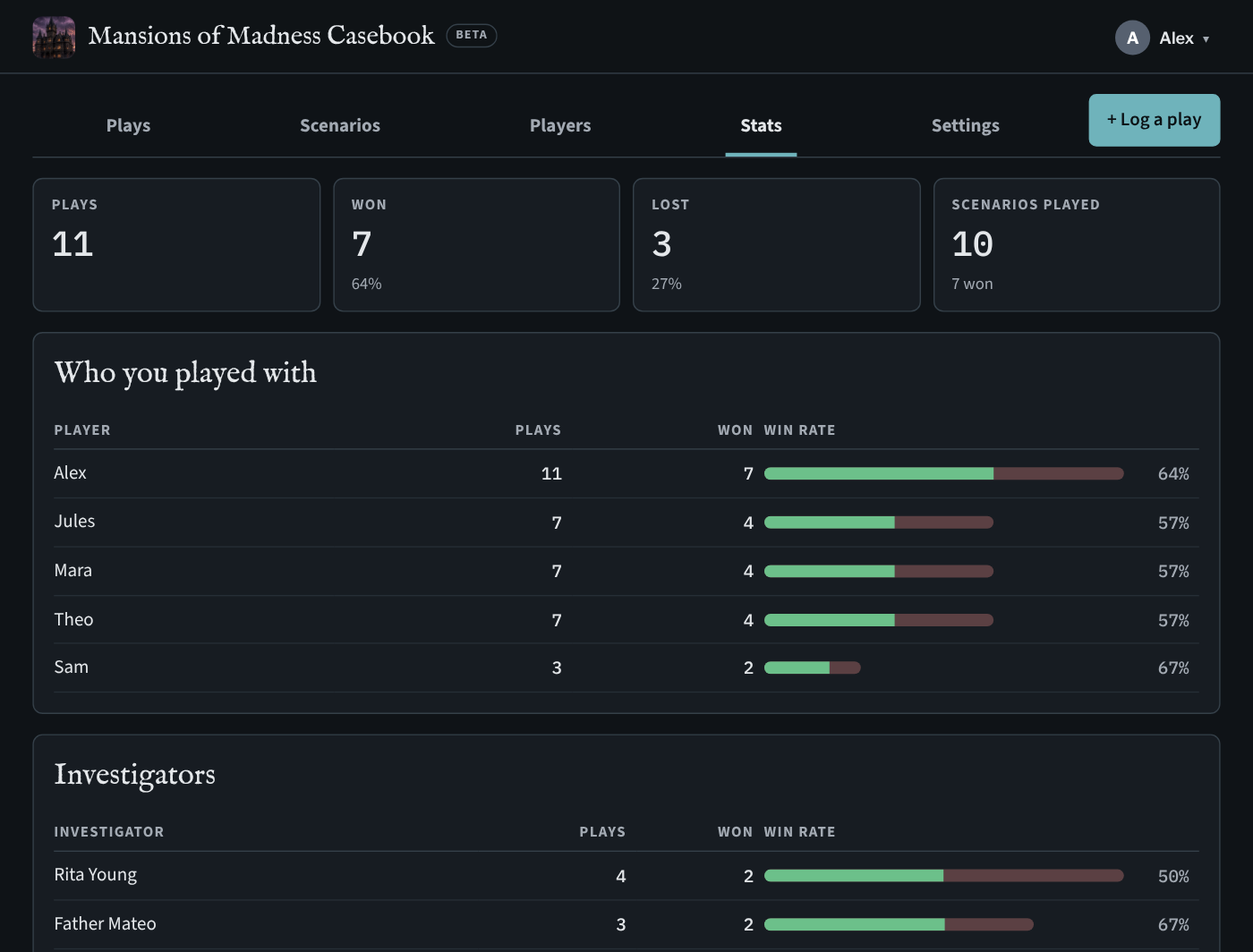
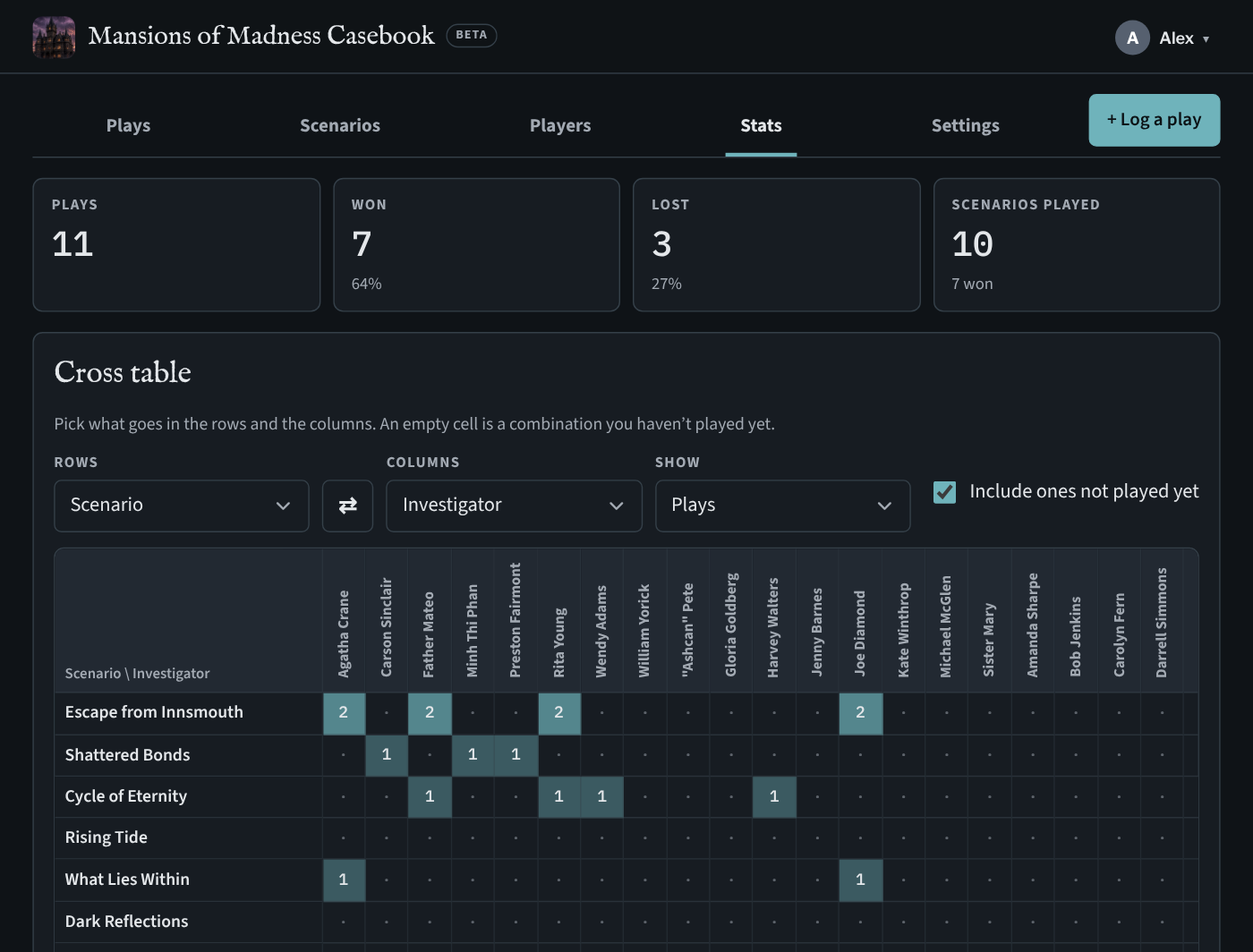
Cross table on the Stats tab (v58)
Pick any two of scenario, investigator, player, expansion, party size, place, rules,
result and scenario type for the rows and columns (swap with one tap) and see plays, wins
or win rate in each cell. Include ones not played yet lists every official scenario and
investigator from the boxes you own, so the empty cells are the combinations still to try.
Scrolls with its headings fixed, column names run upwards when there are many, and the
choice is remembered on the device (mom-xtab). Translated in all five languages; covered by
the UI test; README updated.

Suggested by a player.

Claude-Session: https://claude.ai/code/session_019kh66ouXYwNDK6aTZ456xr

diff --git a/js/app.js b/js/app.js
@@ -433,12 +433,82 @@ function lenText(m){
   var unit=function(x,n){return mins(x)?t('{n} min',{n:n}):t('{n} h',{n:n});};
   if(m[0]&&m[0]!==m[1])return mins(m[0])===mins(m[1])?unit(m[1],num(m[0])+'–'+num(m[1])):unit(m[0],num(m[0]))+'–'+unit(m[1],num(m[1]));
   return unit(m[1],num(m[1]));}
+// ---------- cross table (Stats tab): any two things against each other ----------
+// Rows and columns are picked from the dimensions below; each cell counts the plays that have both. "Include ones not
+// played yet" adds every official scenario and investigator from the boxes you own (and your saved players), so the
+// empty cells show combinations still to try. The choice is remembered on this device.
+var xt={r:'scenario',c:'investigator',v:'plays',all:true};
+try{var xt0=JSON.parse(localStorage.getItem('mom-xtab')||'null');if(xt0)for(var kx in xt0)xt[kx]=xt0[kx];}catch(e){}
+function saveXt(){try{localStorage.setItem('mom-xtab',JSON.stringify(xt));}catch(e){}}
+var XDIMS=['scenario','investigator','player','expansion','party','where','rules','result','type'];
+function xdimName(d){return {scenario:t('Scenario'),investigator:t('Investigator'),player:t('Player'),expansion:t('Expansion'),party:t('Party size'),where:t('Where'),rules:t('Rules'),result:t('Result'),type:t('Scenario type')}[d];}
+// the values a play has for a dimension (several for investigators and players), as [key, label]
+function xvals(d,p){
+  var sc=scenById(p.scenarioId);
+  if(d==='scenario')return [[p.scenarioId,scName(p.scenarioId,p.scenarioName)]];
+  if(d==='investigator'){var seen={};return (p.party||[]).map(function(s){return (s.investigator||'').trim();}).filter(function(v){if(!v||seen[v])return false;seen[v]=1;return true;}).map(function(v){return [v,v];});}
+  if(d==='player')return peopleAt(p).names.map(function(n){return [n.toLowerCase(),n];});
+  if(d==='expansion'){if(p.scenarioType==='valkyrie')return [['valkyrie',t('Valkyrie')]];var pr=sc&&sc.product;return pr?[[pr,MOM.productName(pr)]]:[];}
+  if(d==='party'){var n=peopleAt(p).count;return n?[[String(n),n===1?t('Solo'):tn('{n} player','{n} players',n)]]:[];}
+  if(d==='where')return [[p.location||'',p.location||t('Not recorded')]];
+  if(d==='rules')return [[p.rules||'',p.rules?rulesName(p.rules):t('Not recorded')]];
+  if(d==='result')return RES[p.result]?[[p.result,t(RES[p.result][0])]]:[];
+  if(d==='type')return [[p.scenarioType||'official',typeName(p.scenarioType||'official')]];
+  return [];
+}
+// everything a dimension could have, in a sensible order, for "Include ones not played yet"
+function xallVals(d){
+  var own=owned();
+  if(d==='scenario'){var out=[];MOM.PRODUCTS.forEach(function(pr){if(own.indexOf(pr.id)<0)return;MOM.OFFICIAL.filter(function(s){return s.product===pr.id;}).forEach(function(s){out.push([s.id,scName(s.id,s.name)]);});});return out;}
+  if(d==='investigator'){var o2=[];MOM.INVESTIGATOR_GROUPS.forEach(function(g){if(own.indexOf(g.product)>=0)g.list.forEach(function(n){o2.push([n,n]);});});return o2;}
+  if(d==='player')return people.slice().sort(byName).map(function(x){return [x.name.toLowerCase(),x.name];});
+  if(d==='expansion')return MOM.PRODUCTS.filter(function(pr){return own.indexOf(pr.id)>=0;}).map(function(pr){return [pr.id,pr.name];}).concat(showValk()?[['valkyrie',t('Valkyrie')]]:[]);
+  if(d==='result')return Object.keys(RES).map(function(k){return [k,t(RES[k][0])];});
+  return [];
+}
+function xtabHtml(){
+  if(xt.r===xt.c)xt.c=xt.r==='investigator'?'scenario':'investigator';
+  var rows={},cols={},rOrder=[],cOrder=[],cell={},rTot={},cTot={};
+  var addKey=function(map,order,kv){if(!map[kv[0]]){map[kv[0]]=kv[1];order.push(kv[0]);}};
+  if(xt.all){xallVals(xt.r).forEach(function(kv){addKey(rows,rOrder,kv);});xallVals(xt.c).forEach(function(kv){addKey(cols,cOrder,kv);});}
+  var bump=function(o,k,won){var x=o[k]||(o[k]={n:0,w:0});x.n++;if(won)x.w++;};
+  plays.forEach(function(p){var won=p.result==='pass',R=xvals(xt.r,p),C=xvals(xt.c,p);
+    R.forEach(function(r){addKey(rows,rOrder,r);bump(rTot,r[0],won);});C.forEach(function(c){addKey(cols,cOrder,c);bump(cTot,c[0],won);});
+    R.forEach(function(r){C.forEach(function(c){bump(cell,r[0]+'\u0001'+c[0],won);});});});
+  // without "not played yet", most played first; with it, the catalogue's own order (then anything else, most played first)
+  var byCount=function(tot){return function(a,b){return ((tot[b]||{}).n||0)-((tot[a]||{}).n||0);};};
+  if(!xt.all){rOrder.sort(byCount(rTot));cOrder.sort(byCount(cTot));}
+  var sel=function(id,val,opts){return '<select class="f" id="'+id+'">'+opts.map(function(o){return '<option value="'+o[0]+'"'+(o[0]===val?' selected':'')+'>'+esc(o[1])+'</option>';}).join('')+'</select>';};
+  var dims=XDIMS.map(function(d){return [d,xdimName(d)];});
+  var h='<section class="sec xtab"><div class="sec-head"><h2>'+t('Cross table')+'</h2></div>'+
+    '<p class="note">'+t('Pick what goes in the rows and the columns. An empty cell is a combination you haven’t played yet.')+'</p>'+
+    '<div class="filters xt-pick"><label class="field"><span class="lbl">'+t('Rows')+'</span>'+sel('xt-r',xt.r,dims)+'</label>'+
+    '<button class="btn sm xt-swap" type="button" data-a="xtswap" title="'+t('Swap rows and columns')+'" aria-label="'+t('Swap rows and columns')+'">⇄</button>'+
+    '<label class="field"><span class="lbl">'+t('Columns')+'</span>'+sel('xt-c',xt.c,dims.filter(function(d){return d[0]!==xt.r;}))+'</label>'+
+    '<label class="field"><span class="lbl">'+t('Show')+'</span>'+sel('xt-v',xt.v,[['plays',t('Plays')],['won',t('Won|total')],['rate',t('Win rate')]])+'</label>'+
+    '<label class="check xt-all"><input type="checkbox" id="xt-all"'+(xt.all?' checked':'')+'><span>'+t('Include ones not played yet')+'</span></label></div>';
+  if(!rOrder.length||!cOrder.length)return h+'<p class="note">'+t('Nothing to show yet for these two.')+'</p></section>';
+  var max=0;Object.keys(cell).forEach(function(k){if(cell[k].n>max)max=cell[k].n;});
+  var shade=function(x){if(!x)return '';var a=xt.v==='rate'?Math.round(15+60*x.w/x.n):Math.round(12+58*(xt.v==='won'?x.w:x.n)/Math.max(1,max));
+    return ' style="background:color-mix(in srgb,var('+(xt.v==='rate'?'--ok':'--accent')+') '+a+'%,transparent)"';};
+  var val=function(x){if(!x)return '<span class="xt-none" aria-label="'+t('Not played')+'">·</span>';return xt.v==='rate'?pct(x.w,x.n):xt.v==='won'?x.w:x.n;};
+  var tip=function(rk,ck,x){return esc(rows[rk]+' · '+cols[ck]+': '+(x?tn('{n} play · {won} won','{n} plays · {won} won',x.n,{won:x.w}):t('Not played')));};
+  var vertical=cOrder.length>6;
+  h+='<div class="xt-wrap"><table class="xt'+(vertical?' xt-v':'')+'"><thead><tr><th class="xt-corner"><span>'+esc(xdimName(xt.r))+' \\ '+esc(xdimName(xt.c))+'</span></th>'+
+    cOrder.map(function(ck){return '<th scope="col" title="'+esc(cols[ck])+'"><span>'+esc(cols[ck])+'</span></th>';}).join('')+'<th scope="col" class="xt-tot"><span>'+t('Total')+'</span></th></tr></thead><tbody>'+
+    rOrder.map(function(rk){return '<tr><th scope="row">'+esc(rows[rk])+'</th>'+cOrder.map(function(ck){var x=cell[rk+'\u0001'+ck];return '<td class="num"'+shade(x)+' title="'+tip(rk,ck,x)+'">'+val(x)+'</td>';}).join('')+
+      '<td class="num xt-tot">'+val(rTot[rk])+'</td></tr>';}).join('')+
+    '</tbody><tfoot><tr><th scope="row">'+t('Total')+'</th>'+cOrder.map(function(ck){return '<td class="num xt-tot">'+val(cTot[ck])+'</td>';}).join('')+'<td class="num xt-tot">'+(xt.v==='rate'?pct(plays.filter(function(p){return p.result==='pass';}).length,plays.length):xt.v==='won'?plays.filter(function(p){return p.result==='pass';}).length:plays.length)+'</td></tr></tfoot></table></div>'+
+    '<p class="note fine">'+t('A play counts once in each cell it belongs to, so a game with four investigators adds to four columns; totals count each play once.')+'</p></section>';
+  return h;
+}
 function statsHtml(){
   if(!plays.length)return '<section class="sec empty"><h2>'+t('No stats yet')+'</h2><p class="note">'+t('They fill in as you log plays.')+'</p></section>';
   var n=plays.length,pass=plays.filter(function(p){return p.result==='pass';}).length,fail=plays.filter(function(p){return p.result==='fail';}).length;
   var st=scenStats(),beaten=Object.keys(st).filter(function(k){return st[k].pass;}).length;
   var tile=function(k,v,s){return '<div class="stat"><span class="lbl">'+k+'</span><b class="num">'+v+'</b>'+(s?'<small>'+s+'</small>':'')+'</div>';};
   var h='<div class="stats">'+tile(t('Plays'),n)+tile(t('Won|total'),pass,pct(pass,n))+tile(t('Lost|total'),fail,pct(fail,n))+tile(t('Scenarios played'),Object.keys(st).length,tn('{n} won','{n} won',beaten))+'</div>';
+  h+=xtabHtml();
   var table=function(title,rows,col){
     if(!rows.length)return '';var max=Math.max.apply(null,rows.map(function(r){return r.n;}));
     return '<section class="sec"><h2>'+esc(title)+'</h2><table class="tbl"><thead><tr><th>'+esc(col)+'</th><th class="r">'+t('Plays')+'</th><th class="r">'+t('Won|total')+'</th><th class="w">'+t('Win rate')+'</th></tr></thead><tbody>'+
@@ -859,6 +929,7 @@ app.addEventListener('click',function(e){
   else if(k==='fixinv')fixInvestigators();
   else if(k==='fixsc')fixScenarios();
   else if(k==='sfclear'){sf.src=sf.diff=sf.len=sf.rate=sf.lang=sf.own='any';sf.src='all';ui.sfilter='all';ui.sq='';try{sessionStorage.setItem('mom-sf',JSON.stringify(sf));}catch(x){}render();}
+  else if(k==='xtswap'){var xr=xt.r;xt.r=xt.c;xt.c=xr;saveXt();render();}
   else if(k==='newperson')personDialog();
   else if(k==='newgroup')groupDialog();
   else if(k==='editperson'){var ps=people.filter(function(x){return x.id===a.dataset.id;})[0];if(ps)personDialog(ps);}
@@ -896,6 +967,7 @@ app.addEventListener('change',function(e){
   if(el.id==='fres'){ui.result=el.value;render();}else if(el.id==='fpl'){ui.player=el.value;render();}else if(el.id==='fsc'){ui.scen=el.value;render();}
   else if(el.id==='sf-status'){ui.sfilter=el.value;render();}
   else if(/^sf-/.test(el.id)&&el.id!=='sf-status'){sf[el.id.slice(3)]=el.value;try{sessionStorage.setItem('mom-sf',JSON.stringify(sf));}catch(x){}render();}
+  else if(/^xt-/.test(el.id)){var xk=el.id.slice(3);xt[xk==='all'?'all':xk]=xk==='all'?el.checked:el.value;saveXt();render();}
   else if(el.id==='s-lang')I18N.set(el.value);
   else if(el.id==='s-valk')fb.db.doc('users/'+me.uid).set({hideValkyrie:!el.checked},{merge:true}).catch(function(err){toast(friendly(err));});
   else if(el.dataset.own){var o=owned().slice(),i=o.indexOf(el.dataset.own);if(el.checked&&i<0)o.push(el.dataset.own);if(!el.checked&&i>=0)o.splice(i,1);

diff --git a/css/app.css b/css/app.css
@@ -471,3 +471,20 @@ select.f.dd-open{border-color:var(--accent);box-shadow:0 0 0 3px color-mix(in sr
 .set.s-pots{background:#7a4a2a}.set.s-fan{background:transparent;color:var(--muted);border:1px solid var(--line)}
 /* an official scenario's English name under its translated one (Scenarios tab) */
 .scs .orig{font-size:12.5px;font-style:italic;margin-top:-2px}
+/* cross table (Stats tab): scrolls inside its box; the row names and column heads stay put while it does */
+.xt-pick{align-items:flex-end}
+.xt-pick .xt-swap{min-height:42px;font-size:18px;padding:4px 12px}
+.xt-pick .xt-all{align-self:center;margin-left:4px}
+.xt-wrap{overflow:auto;max-height:70vh;border:1px solid var(--line);border-radius:8px;background:var(--surface);overscroll-behavior:contain}
+.xt{border-collapse:separate;border-spacing:0;font-size:14px;min-width:100%}
+.xt th,.xt td{padding:6px 8px;border-bottom:1px solid color-mix(in srgb,var(--line) 60%,transparent);border-right:1px solid color-mix(in srgb,var(--line) 40%,transparent);white-space:nowrap}
+.xt thead th{position:sticky;top:0;z-index:2;background:var(--surface2);font-size:12px;font-weight:700;color:var(--muted);text-align:center;vertical-align:bottom}
+.xt tbody th,.xt tfoot th{position:sticky;left:0;z-index:1;background:var(--surface);text-align:left;font-weight:600;max-width:42vw;overflow:hidden;text-overflow:ellipsis}
+.xt thead th.xt-corner{left:0;z-index:3;text-align:left;font-weight:600;white-space:normal;min-width:120px}
+.xt td{text-align:center;min-width:34px}
+.xt .xt-none{color:var(--muted);opacity:.5}
+.xt .xt-tot{font-weight:700;background:var(--surface2)}
+.xt tfoot th,.xt tfoot td{border-bottom:0}
+/* many columns: their names run upwards so the table stays narrow */
+.xt.xt-v thead th:not(.xt-corner) span{writing-mode:vertical-rl;transform:rotate(180deg);display:inline-block;max-height:170px;overflow:hidden;text-overflow:ellipsis;text-align:left}
+@media (max-width:520px){.xt{font-size:13px}.xt th,.xt td{padding:5px 6px}.xt-pick .xt-all{flex-basis:100%;margin-left:0}}

diff --git a/test/ui.test.js b/test/ui.test.js
@@ -385,7 +385,15 @@ const gviz={status:'ok',table:{cols:rows[0].map(l=>({label:l})),rows:rows.slice(
   assert.ok(await p.isHidden('.acctmenu'),'click outside closes it');
   await p.click('.acctbtn');await p.keyboard.press('Escape');assert.ok(await p.isHidden('.acctmenu'),'Escape closes it');
   await p.click('[data-t=settings]');assert.strictEqual(await p.locator('h2:text-is("You")').count(),0,'no longer in Settings');
-  // one person playing two characters in a game counts once for that game
+  // cross table: scenarios by investigators by default, every official one listed; swap, pick, show win rate, remembered
+  await p.click('[data-t=stats]');await p.waitForSelector('.xt');
+  assert.ok(await p.locator('.xt tbody tr').count()>=24,'every official scenario in the rows');
+  assert.ok(await p.locator('.xt thead th').count()>=41,'every official investigator in the columns');
+  assert.ok(await p.locator('.xt td .xt-none').count()>0,'combinations not played yet show as empty');
+  await p.click('[data-a=xtswap]');assert.strictEqual(await p.inputValue('#xt-r'),'investigator','swapped');
+  await p.selectOption('#xt-c','result');await p.selectOption('#xt-v','won');
+  assert.strictEqual(await p.evaluate(()=>JSON.parse(localStorage.getItem('mom-xtab')).c),'result','choice remembered');
+  await p.selectOption('#xt-r','scenario');await p.selectOption('#xt-c','investigator');await p.selectOption('#xt-v','plays');
   const rowVal=async(table,name)=>{await p.click('[data-t=stats]');return p.evaluate(([t,n])=>{const sec=[...document.querySelectorAll('section.sec')].find(s=>s.querySelector('h2')&&s.querySelector('h2').textContent===t);
     if(!sec)return null;const tr=[...sec.querySelectorAll('tbody tr')].find(r=>r.cells[0].textContent.replace(/\u00a0/g,' ')===n);return tr?[+tr.cells[1].textContent,+tr.cells[2].textContent]:[0,0];},[table,name]);};
   const danBefore=await rowVal('Who you played with','Dan'),twoBefore=await rowVal('Party size','2 players'),soloBefore=await rowVal('Party size','Solo');

diff --git a/js/lang/pl.js b/js/lang/pl.js
@@ -472,7 +472,18 @@ I18N.add('pl',[
 [`The cellar was a bad idea.`,`Piwnica to był zły pomysł.`],
 [`Our first game together.`,`Nasza pierwsza wspólna rozgrywka.`],
 [`Solved four of the five.`,`Rozwiązaliśmy cztery z pięciu.`],
-[`Mirrors everywhere. Loved it.`,`Lustra wszędzie. Świetne.`]
+[`Mirrors everywhere. Loved it.`,`Lustra wszędzie. Świetne.`],
+[`Cross table`,`Tabela krzyżowa`],
+[`Pick what goes in the rows and the columns. An empty cell is a combination you haven’t played yet.`,`Wybierz, co ma być w wierszach, a co w kolumnach. Pusta komórka to połączenie, w które jeszcze nie grano.`],
+[`Rows`,`Wiersze`],
+[`Swap rows and columns`,`Zamień wiersze z kolumnami`],
+[`Columns`,`Kolumny`],
+[`Show`,`Pokaż`],
+[`Include ones not played yet`,`Uwzględnij jeszcze nierozegrane`],
+[`Nothing to show yet for these two.`,`Na razie nie ma tu nic do pokazania.`],
+[`Total`,`Razem`],
+[`A play counts once in each cell it belongs to, so a game with four investigators adds to four columns; totals count each play once.`,`Rozgrywka liczy się raz w każdej komórce, do której należy, więc gra z czterema badaczami dolicza się do czterech kolumn; sumy liczą każdą rozgrywkę raz.`],
+[`{n} plays · {won} won`,{one:`{n} rozgrywka · wygrane: {won}`,few:`{n} rozgrywki · wygrane: {won}`,many:`{n} rozgrywek · wygrane: {won}`,other:`{n} rozgrywki · wygrane: {won}`}]
 ],{
 // Official scenario names confirmed from Polish reviews and shops: o-cycle-of-eternity, o-escape-from-innsmouth, o-astral-alchemy, o-gangs-of-arkham, o-ill-fated-exhibit, o-gates-of-silverwood-manor, o-10-50-to-arkham. The rest are translated for this site and not yet confirmed against Galakta's app text; please correct.
 scenarios:{

diff --git a/js/lang/pt.js b/js/lang/pt.js
@@ -471,7 +471,18 @@ I18N.add('pt',[
 [`The cellar was a bad idea.`,`O porão foi uma péssima ideia.`],
 [`Our first game together.`,`Nossa primeira partida juntos.`],
 [`Solved four of the five.`,`Resolvemos quatro dos cinco.`],
-[`Mirrors everywhere. Loved it.`,`Espelhos por todo lado. Adoramos.`]
+[`Mirrors everywhere. Loved it.`,`Espelhos por todo lado. Adoramos.`],
+[`Cross table`,`Tabela cruzada`],
+[`Pick what goes in the rows and the columns. An empty cell is a combination you haven’t played yet.`,`Escolha o que vai nas linhas e nas colunas. Uma célula vazia é uma combinação que você ainda não jogou.`],
+[`Rows`,`Linhas`],
+[`Swap rows and columns`,`Trocar linhas e colunas`],
+[`Columns`,`Colunas`],
+[`Show`,`Mostrar`],
+[`Include ones not played yet`,`Incluir o que ainda não foi jogado`],
+[`Nothing to show yet for these two.`,`Ainda não há nada para mostrar com esses dois.`],
+[`Total`,`Total`],
+[`A play counts once in each cell it belongs to, so a game with four investigators adds to four columns; totals count each play once.`,`Uma partida conta uma vez em cada célula a que pertence, então uma partida com quatro investigadores soma em quatro colunas; os totais contam cada partida uma só vez.`],
+[`{n} plays · {won} won`,{one:`{n} partida · vitórias: {won}`,other:`{n} partidas · vitórias: {won}`}]
 ],{
 // Official scenario names from Ludopedia's entries for each box, the app's App Store release notes and in-app purchases. Not yet confirmed (translated for this site, please correct): o-the-twilight-diadem, o-murder-on-the-stargazer-majestic, o-10-50-to-arkham, o-hidden-depths, o-the-jungle-awakens, o-into-the-dark, o-lost-temple-of-yig.
 scenarios:{

diff --git a/js/lang/es.js b/js/lang/es.js
@@ -471,7 +471,18 @@ I18N.add('es',[
 [`The cellar was a bad idea.`,`Lo del sótano fue mala idea.`],
 [`Our first game together.`,`Nuestra primera partida juntos.`],
 [`Solved four of the five.`,`Resolvimos cuatro de los cinco.`],
-[`Mirrors everywhere. Loved it.`,`Espejos por todas partes. Nos encantó.`]
+[`Mirrors everywhere. Loved it.`,`Espejos por todas partes. Nos encantó.`],
+[`Cross table`,`Tabla cruzada`],
+[`Pick what goes in the rows and the columns. An empty cell is a combination you haven’t played yet.`,`Elige qué va en las filas y en las columnas. Una celda vacía es una combinación que aún no has jugado.`],
+[`Rows`,`Filas`],
+[`Swap rows and columns`,`Intercambiar filas y columnas`],
+[`Columns`,`Columnas`],
+[`Show`,`Mostrar`],
+[`Include ones not played yet`,`Incluir lo que aún no has jugado`],
+[`Nothing to show yet for these two.`,`Todavía no hay nada que mostrar para estos dos.`],
+[`Total`,`Total`],
+[`A play counts once in each cell it belongs to, so a game with four investigators adds to four columns; totals count each play once.`,`Una partida cuenta una vez en cada celda a la que pertenece, así que una partida con cuatro investigadores suma en cuatro columnas; los totales cuentan cada partida una sola vez.`],
+[`{n} plays · {won} won`,{one:`{n} partida · victorias: {won}`,other:`{n} partidas · victorias: {won}`}]
 ],{
 // Official scenario names as the companion app and Edge's boxes give them (sources: Leyenda.net's entries for each box, the app's App Store release notes and in-app purchases, Spanish shop listings and forum posts).
 scenarios:{

diff --git a/js/lang/fr.js b/js/lang/fr.js
@@ -471,7 +471,18 @@ I18N.add('fr',[
 [`The cellar was a bad idea.`,`La cave, c’était une mauvaise idée.`],
 [`Our first game together.`,`Notre première partie ensemble.`],
 [`Solved four of the five.`,`Quatre sur cinq résolus.`],
-[`Mirrors everywhere. Loved it.`,`Des miroirs partout. On a adoré.`]
+[`Mirrors everywhere. Loved it.`,`Des miroirs partout. On a adoré.`],
+[`Cross table`,`Tableau croisé`],
+[`Pick what goes in the rows and the columns. An empty cell is a combination you haven’t played yet.`,`Choisissez ce qui va en lignes et en colonnes. Une case vide est une combinaison que vous n’avez pas encore jouée.`],
+[`Rows`,`Lignes`],
+[`Swap rows and columns`,`Inverser lignes et colonnes`],
+[`Columns`,`Colonnes`],
+[`Show`,`Afficher`],
+[`Include ones not played yet`,`Inclure ce qui n’a pas encore été joué`],
+[`Nothing to show yet for these two.`,`Rien à afficher pour l’instant pour ces deux-là.`],
+[`Total`,`Total`],
+[`A play counts once in each cell it belongs to, so a game with four investigators adds to four columns; totals count each play once.`,`Une partie compte une fois dans chaque case où elle figure : une partie à quatre investigateurs compte dans quatre colonnes ; les totaux comptent chaque partie une seule fois.`],
+[`{n} plays · {won} won`,{one:`{n} partie · victoires : {won}`,other:`{n} parties · victoires : {won}`}]
 ],{
 // Official scenario names from the app's App Store release notes and in-app purchases, and a French players' list; "Secrets enfouis" (What Lies Within) is from that list only.
 scenarios:{

diff --git a/js/lang/ca.js b/js/lang/ca.js
@@ -471,7 +471,18 @@ I18N.add('ca',[
 [`The cellar was a bad idea.`,`Allò del soterrani va ser mala idea.`],
 [`Our first game together.`,`La nostra primera partida junts.`],
 [`Solved four of the five.`,`Vam resoldre'n quatre de cinc.`],
-[`Mirrors everywhere. Loved it.`,`Miralls per tot arreu. Ens va encantar.`]
+[`Mirrors everywhere. Loved it.`,`Miralls per tot arreu. Ens va encantar.`],
+[`Cross table`,`Taula creuada`],
+[`Pick what goes in the rows and the columns. An empty cell is a combination you haven’t played yet.`,`Tria què va a les files i a les columnes. Una cel·la buida és una combinació que encara no has jugat.`],
+[`Rows`,`Files`],
+[`Swap rows and columns`,`Intercanvia files i columnes`],
+[`Columns`,`Columnes`],
+[`Show`,`Mostra`],
+[`Include ones not played yet`,`Inclou el que encara no has jugat`],
+[`Nothing to show yet for these two.`,`Encara no hi ha res a mostrar per a aquests dos.`],
+[`Total`,`Total`],
+[`A play counts once in each cell it belongs to, so a game with four investigators adds to four columns; totals count each play once.`,`Una partida compta una vegada a cada cel·la on pertany, així que una partida amb quatre investigadors suma a quatre columnes; els totals compten cada partida una sola vegada.`],
+[`{n} plays · {won} won`,{one:`{n} partida · victòries: {won}`,other:`{n} partides · victòries: {won}`}]
 ],{
 // There's no Catalan edition of the game or app, so official scenario names are the Spanish ones players see in the app.
 scenarios:{

diff --git a/js/version.js b/js/version.js
@@ -1,3 +1,3 @@
 /* The one place the version lives. Bump it with every change (see CLAUDE.md): every page's footer and the
    account menu show it, and the offline cache in sw.js is named after it, so a bump also refreshes installed apps. */
-self.APP_VERSION='v57';
+self.APP_VERSION='v58';

diff --git a/README.md b/README.md
@@ -23,7 +23,7 @@ This repo is the code behind the live site. It isn't packaged for running your o
 - **Play again.** Scenarios you've played show **Play again** (with a replay icon) instead of Log a play: the form opens with the same players, investigators, rules and place as last time, and the attempt number goes up after a loss.
 - **Packing lists.** Every Valkyrie scenario has a **Packing list** (also on the Next game card): the tiles it uses, every one from a Fantasy Flight box numbered as in the community [Mansions of Madness Tiles Index v5.2](https://boardgamegeek.com/filepage/147448/mansions-of-madness-tiles-index), each with a color-coded tag for the set whose symbol is printed on it (Core, 1E, CotW, FA, BtT, SoA, SoT, HJ, PotS; first-edition pieces also say which box reprints them) and the side on its back, the tiles only needed for 6 players, and the monster figures (with the custom monsters each one stands in for). Tick things off as you pack; the ticks stay on that device. Each scenario also says which boxes it **needs**, flagging any not ticked in Settings, and the Scenarios tab can show only those **Playable with what I own**. It's the website version of the [valkyrie-tools packlist](https://github.com/maniac782/valkyrie-tools/tree/main/packlist), built from each scenario file by `scripts/fetch-packlists.py` and refreshed with the weekly Valkyrie update. No tile or monster art (house rule 2), just names, numbers and boxes.
 - **Players.** The people you play with, without them needing accounts: just their names and an optional note, with plays, win rate, last game and their usual investigator. Put them in **groups** (one person can be in several); when logging a play, pick a group to fill in the seats, then adjust for that scenario. Names already typed into plays can be saved with one tap, and renaming someone can update their past plays too.
-- **Stats.** Win rates per person, per investigator, per scenario, by party size, by rules variant and by scenario type. A person who plays two characters in one game counts once for that game (names match ignoring case); party size counts people, so one person running two investigators is solo.
+- **Stats.** A **cross table** of any two things against each other (scenario, investigator, player, expansion, party size, place, rules, result or scenario type, in rows and columns, swapped with one tap), showing plays, wins or win rate; with **Include ones not played yet** it lists every official scenario and investigator from your boxes, so the empty cells are the combinations still to try (say, which investigators you've never taken into which scenarios). The table scrolls with its headings fixed, and the choice is remembered on the device. Then win rates per person, per investigator, per scenario, by party size, by rules variant and by scenario type. A person who plays two characters in one game counts once for that game (names match ignoring case); party size counts people, so one person running two investigators is solo.
 - **Import.** From a Google Sheet link (shared as "Anyone with the link") or a CSV file. Understands the original tracking sheet's columns (*Scenario, Played, Characters, Pass/Fail, Notes, Rules*) and this site's own export. Short investigator names are expanded ("Tommy" → Tommy Muldoon); "Passed on 3rd try" becomes a win on attempt 3 (Won/Lost, Win/Loss and Pass/Fail are all understood); rows marked N under Played are skipped; anything already imported is never added twice.
 - **Profile pictures.** In the account menu (your picture and name, top right; built to look and behave exactly like the Arkham Horror RPG Ledger's, down to the same class names and styles), **Your account** lets you choose a picture, position and zoom it in a circle, and change your name. Without a picture, your initial shows on a color you pick there (the colors hide while a picture is showing). It shows on your account button and in the admin page's account list.
 - **Export.** CSV (opens in any spreadsheet, and imports back) and a JSON backup. Delete all plays, or the whole account, from Settings.
@@ -62,7 +62,7 @@ This repo is the code behind the live site. It isn't packaged for running your o
 <table>
 <tr>
 <td width="50%"><img src="docs/screenshots/players.png" alt="The Players tab: groups and regular players with their plays, win rate and usual investigator"></td>
-<td width="50%"><img src="docs/screenshots/stats.png" alt="The Stats tab: totals and win rates by player and investigator"></td>
+<td width="50%"><img src="docs/screenshots/stats.png" alt="The Stats tab: totals and the cross table of scenarios by investigators"></td>
 </tr>
 <tr>
 <td align="center">Players and groups</td>
@@ -136,7 +136,7 @@ Plain HTML, CSS and JavaScript, no build step. Firebase compat SDK 10 (Authentic
 - Investigators in `party` must be one of the official names in `investigators()` in `firestore.rules`, the same list as `js/catalog.js` (CI checks they match; sources noted there).
 - `users/{uid}/people/{id}`: regular players (name, notes). `users/{uid}/groups/{id}`: groups of them (name, members: people ids). Plays store player names as text, so deleting a player leaves past plays as they were.
 - `scenarios/{id}`: shared scenarios from the admin page (official or Valkyrie only). `admins/{uid}`, `feedback`, `errors` as above.
-- In the browser only (`localStorage`): a casebook started without an account (`mom-local-db`, plus `mom-local` while it's in use), packing-list ticks per scenario (`mom-pack-<key>`), which boxes are open (`mom-boxes`) and the language picked on this device (`mom-lang`). Nothing here reaches the database until **Save to an account**.
+- In the browser only (`localStorage`): a casebook started without an account (`mom-local-db`, plus `mom-local` while it's in use), packing-list ticks per scenario (`mom-pack-<key>`), which boxes are open (`mom-boxes`), the cross table's rows and columns (`mom-xtab`) and the language picked on this device (`mom-lang`). Nothing here reaches the database until **Save to an account**.
 
 ### Valkyrie scenarios
 **Refreshed automatically every Monday** by `.github/workflows/valkyrie-refresh.yml`: it runs the script below and rebuilds the packing lists (`scripts/fetch-packlists.py`, which downloads only new or updated scenario files), and if anything changed (new scenarios, updated community numbers or packing lists) it bumps the version, runs the tests, commits and starts the deploy. It can also be run by hand from the Actions tab (*Refresh Valkyrie scenarios → Run workflow*). Scenarios that leave the catalogue are kept, marked retired, so old plays keep their details.
